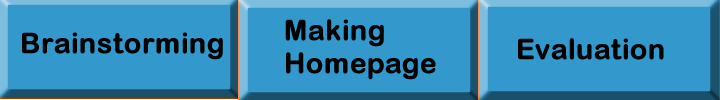
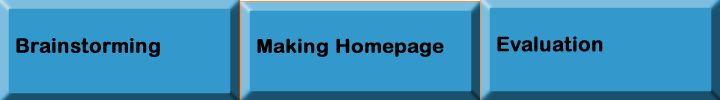
made evaluation page on template

Changed region(s): [[0.0, 0.0, 1.0, 1.0]]

diff --git a/Templates/Evaluatio.html b/Templates/Evaluatio.html
@@ -1,0 +1,143 @@
+<!DOCTYPE html PUBLIC "-//W3C//DTD XHTML 1.0 Transitional//EN" "http://www.w3.org/TR/xhtml1/DTD/xhtml1-transitional.dtd">
+<html xmlns="http://www.w3.org/1999/xhtml"><!-- InstanceBegin template="/Templates/planningsitetemplate.dwt" codeOutsideHTMLIsLocked="false" -->
+<head>
+<meta http-equiv="Content-Type" content="text/html; charset=UTF-8" />
+<!-- InstanceBeginEditable name="doctitle" -->
+<title>Untitled Document</title>
+<!-- InstanceEndEditable -->
+<!-- InstanceBeginEditable name="head" -->
+<!-- InstanceEndEditable -->
+<style type="text/css">
+#apDiv1 {
+	position:absolute;
+	left:128px;
+	top:19px;
+	width:800px;
+	height:45px;
+	z-index:1;
+}
+#apDiv2 {
+	position:absolute;
+	left:0px;
+	top:53px;
+	width:787px;
+	height:182px;
+	z-index:1;
+}
+#apDiv3 {
+	position:absolute;
+	left:0px;
+	top:98px;
+	width:1010px;
+	height:9px;
+	z-index:1;
+	background-color: #000000;
+}
+#apDiv4 {
+	position:absolute;
+	left:623px;
+	top:35px;
+	width:126px;
+	height:61px;
+	z-index:2;
+}
+#apDiv5 {
+	position:absolute;
+	left:751px;
+	top:36px;
+	width:126px;
+	height:59px;
+	z-index:3;
+}
+#apDiv6 {
+	position:absolute;
+	left:879px;
+	top:34px;
+	width:127px;
+	height:62px;
+	z-index:4;
+}
+#apDiv7 {
+	position:absolute;
+	left:46px;
+	top:4px;
+	width:525px;
+	height:82px;
+	z-index:5;
+}
+#apDiv8 {
+	position:absolute;
+	left:0px;
+	top:110px;
+	width:175px;
+	height:542px;
+	z-index:6;
+}
+#apDiv9 {
+	position:absolute;
+	left:139px;
+	top:120px;
+	width:850px;
+	height:3148px;
+	z-index:6;
+}
+#apDiv10 {
+	position:absolute;
+	left:5px;
+	top:120px;
+	width:118px;
+	height:276px;
+	z-index:7;
+}
+#apDiv11 {
+	position:absolute;
+	left:4px;
+	top:190px;
+	width:118px;
+	height:68px;
+	z-index:8;
+}
+#apDiv12 {
+	position:absolute;
+	left:5px;
+	top:260px;
+	width:118px;
+	height:68px;
+	z-index:9;
+}
+#apDiv13 {
+	position:absolute;
+	left:6px;
+	top:328px;
+	width:116px;
+	height:66px;
+	z-index:10;
+}
+#apDiv14 {
+	position:absolute;
+	left:7px;
+	top:120px;
+	width:115px;
+	height:68px;
+	z-index:11;
+}
+</style>
+</head>
+
+<body>
+<div id="apDiv3"></div>
+<div id="apDiv4">Brainstorming</div>
+<div id="apDiv5">Making Homepage</div>
+<div id="apDiv6">Evaluation</div>
+<div id="apDiv7">Planning site- Min Ji Kim</div>
+<div id="apDiv9"><!-- InstanceBeginEditable name="Paragraph" -->
+  <p>Evaluation: </p>
+  <p>&nbsp;</p>
+<!-- InstanceEndEditable --></div>
+<div id="apDiv10"></div>
+<div id="apDiv11">Flowchart</div>
+<div id="apDiv12">Story Board</div>
+<div id="apDiv13">MAP</div>
+<div id="apDiv14">Objectives</div>
+</body>
+<!-- InstanceEnd --></html>
